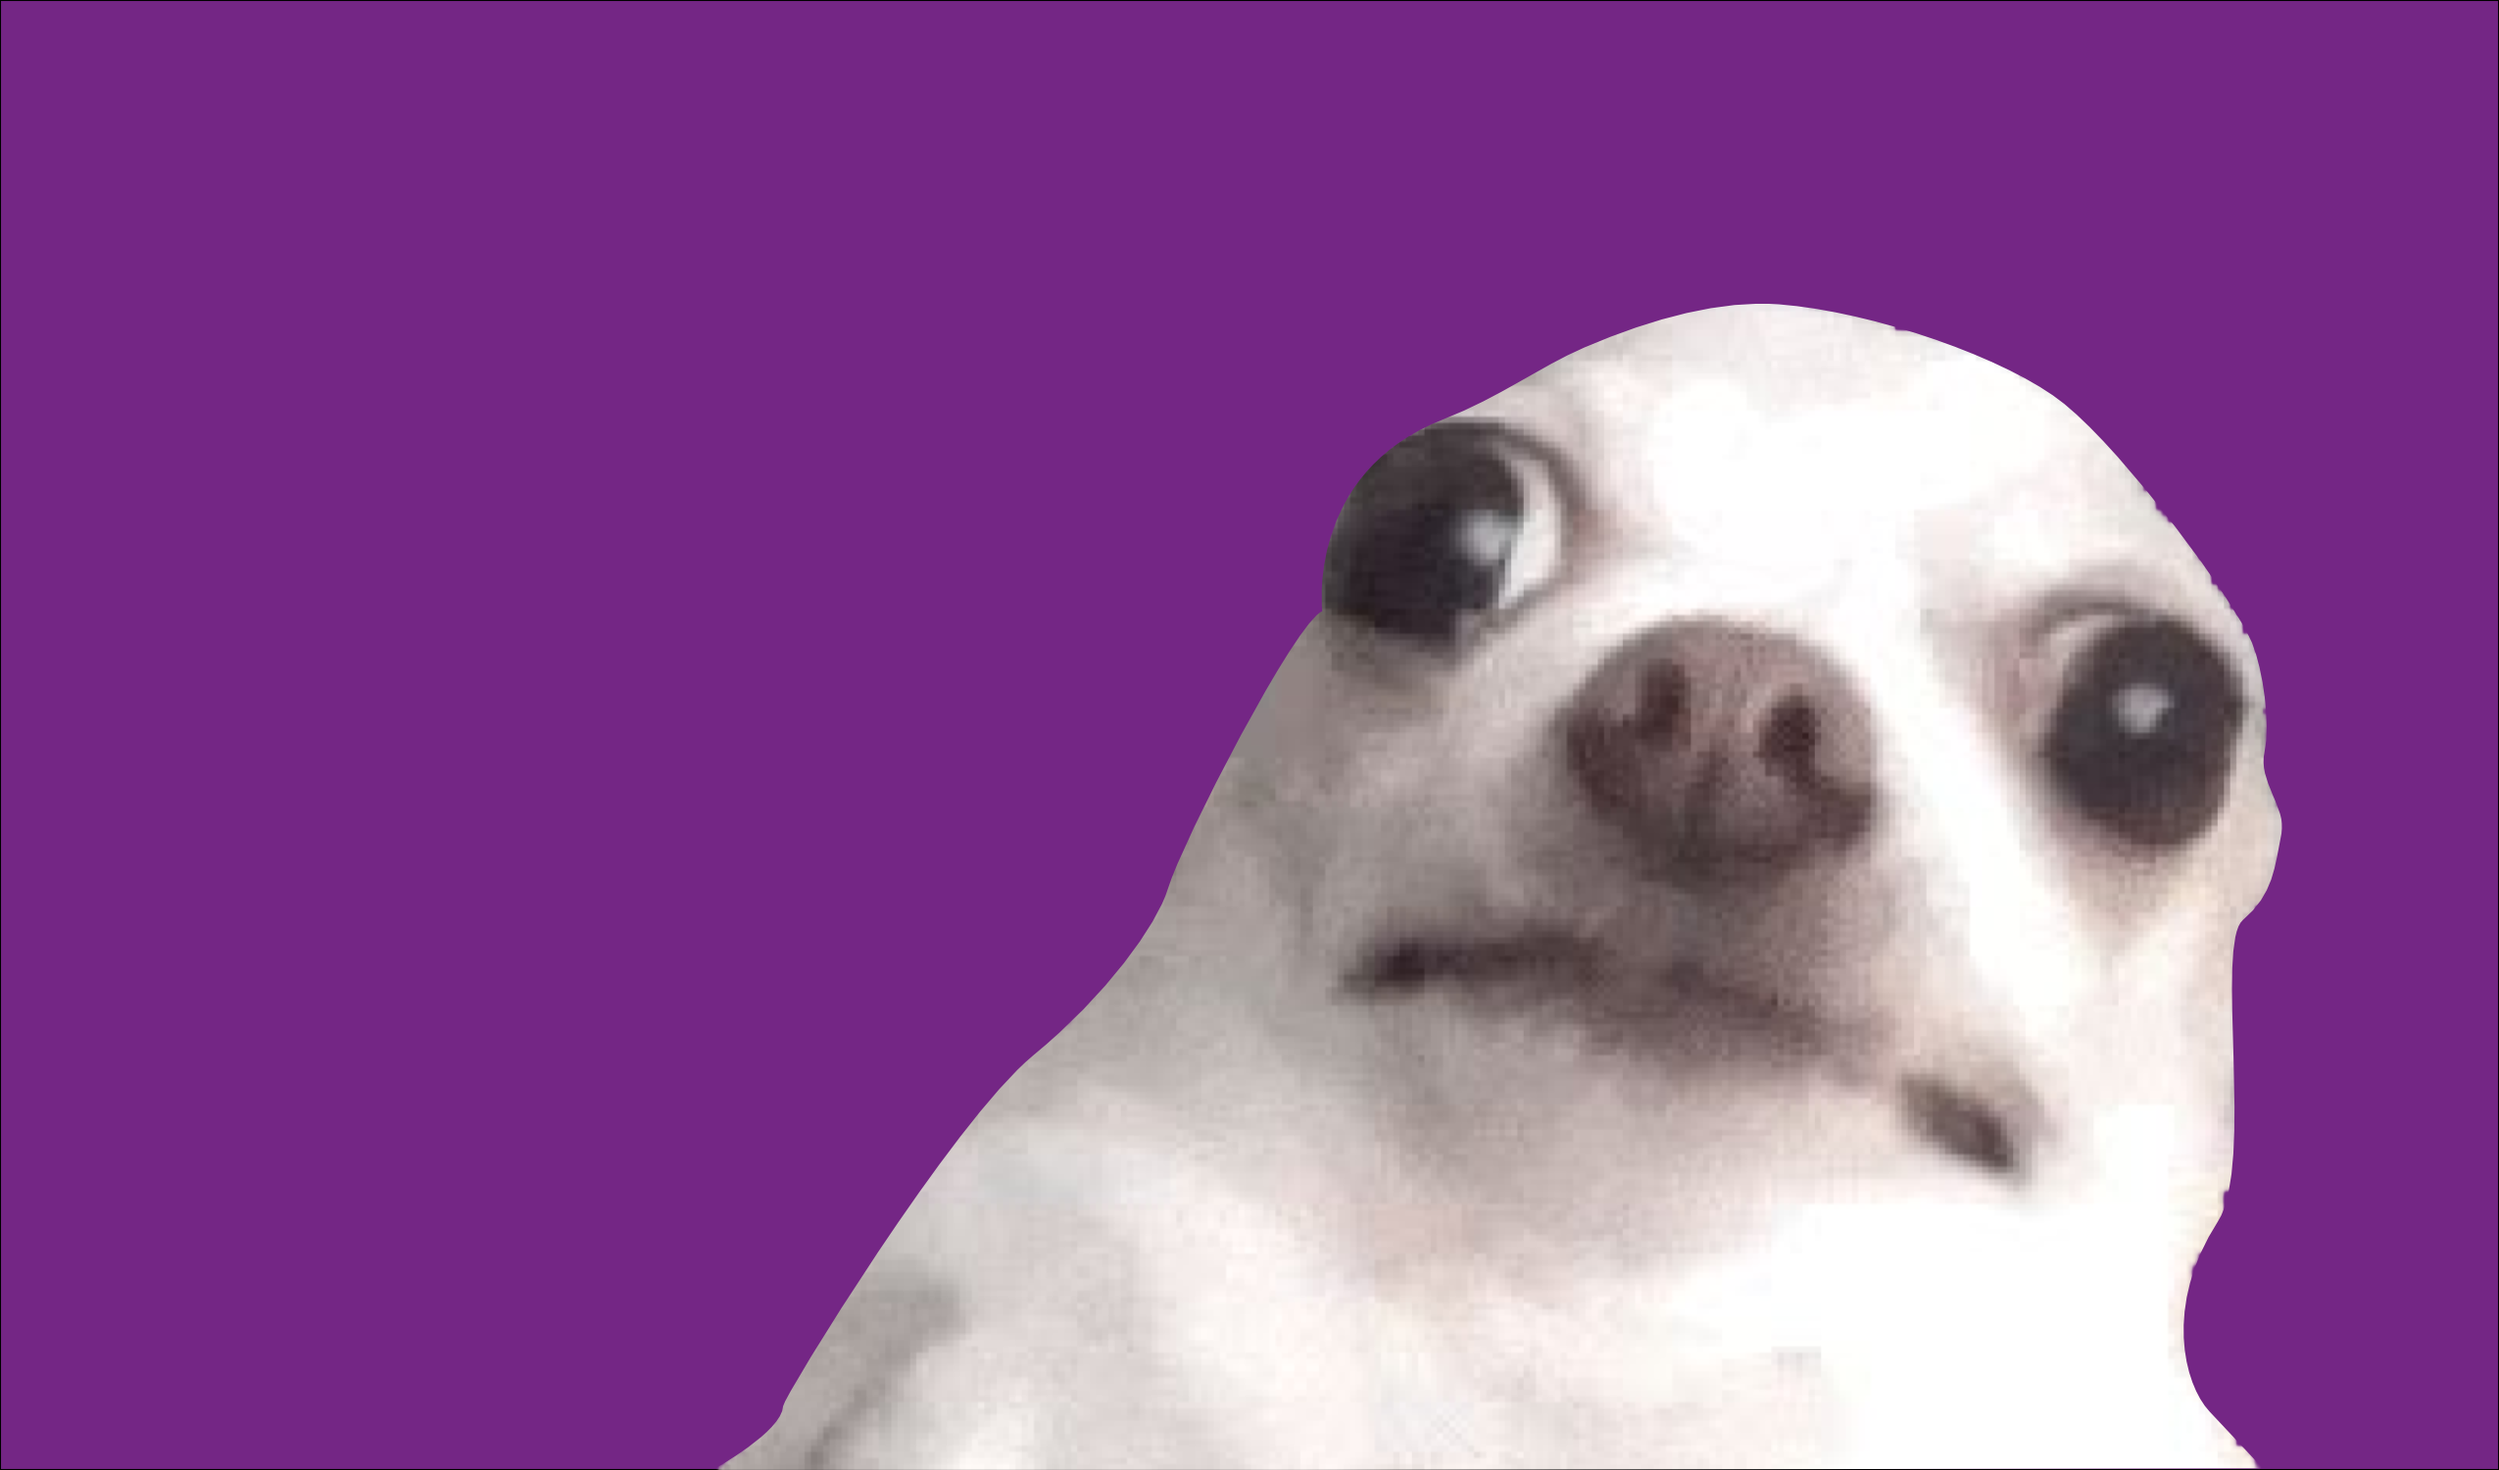
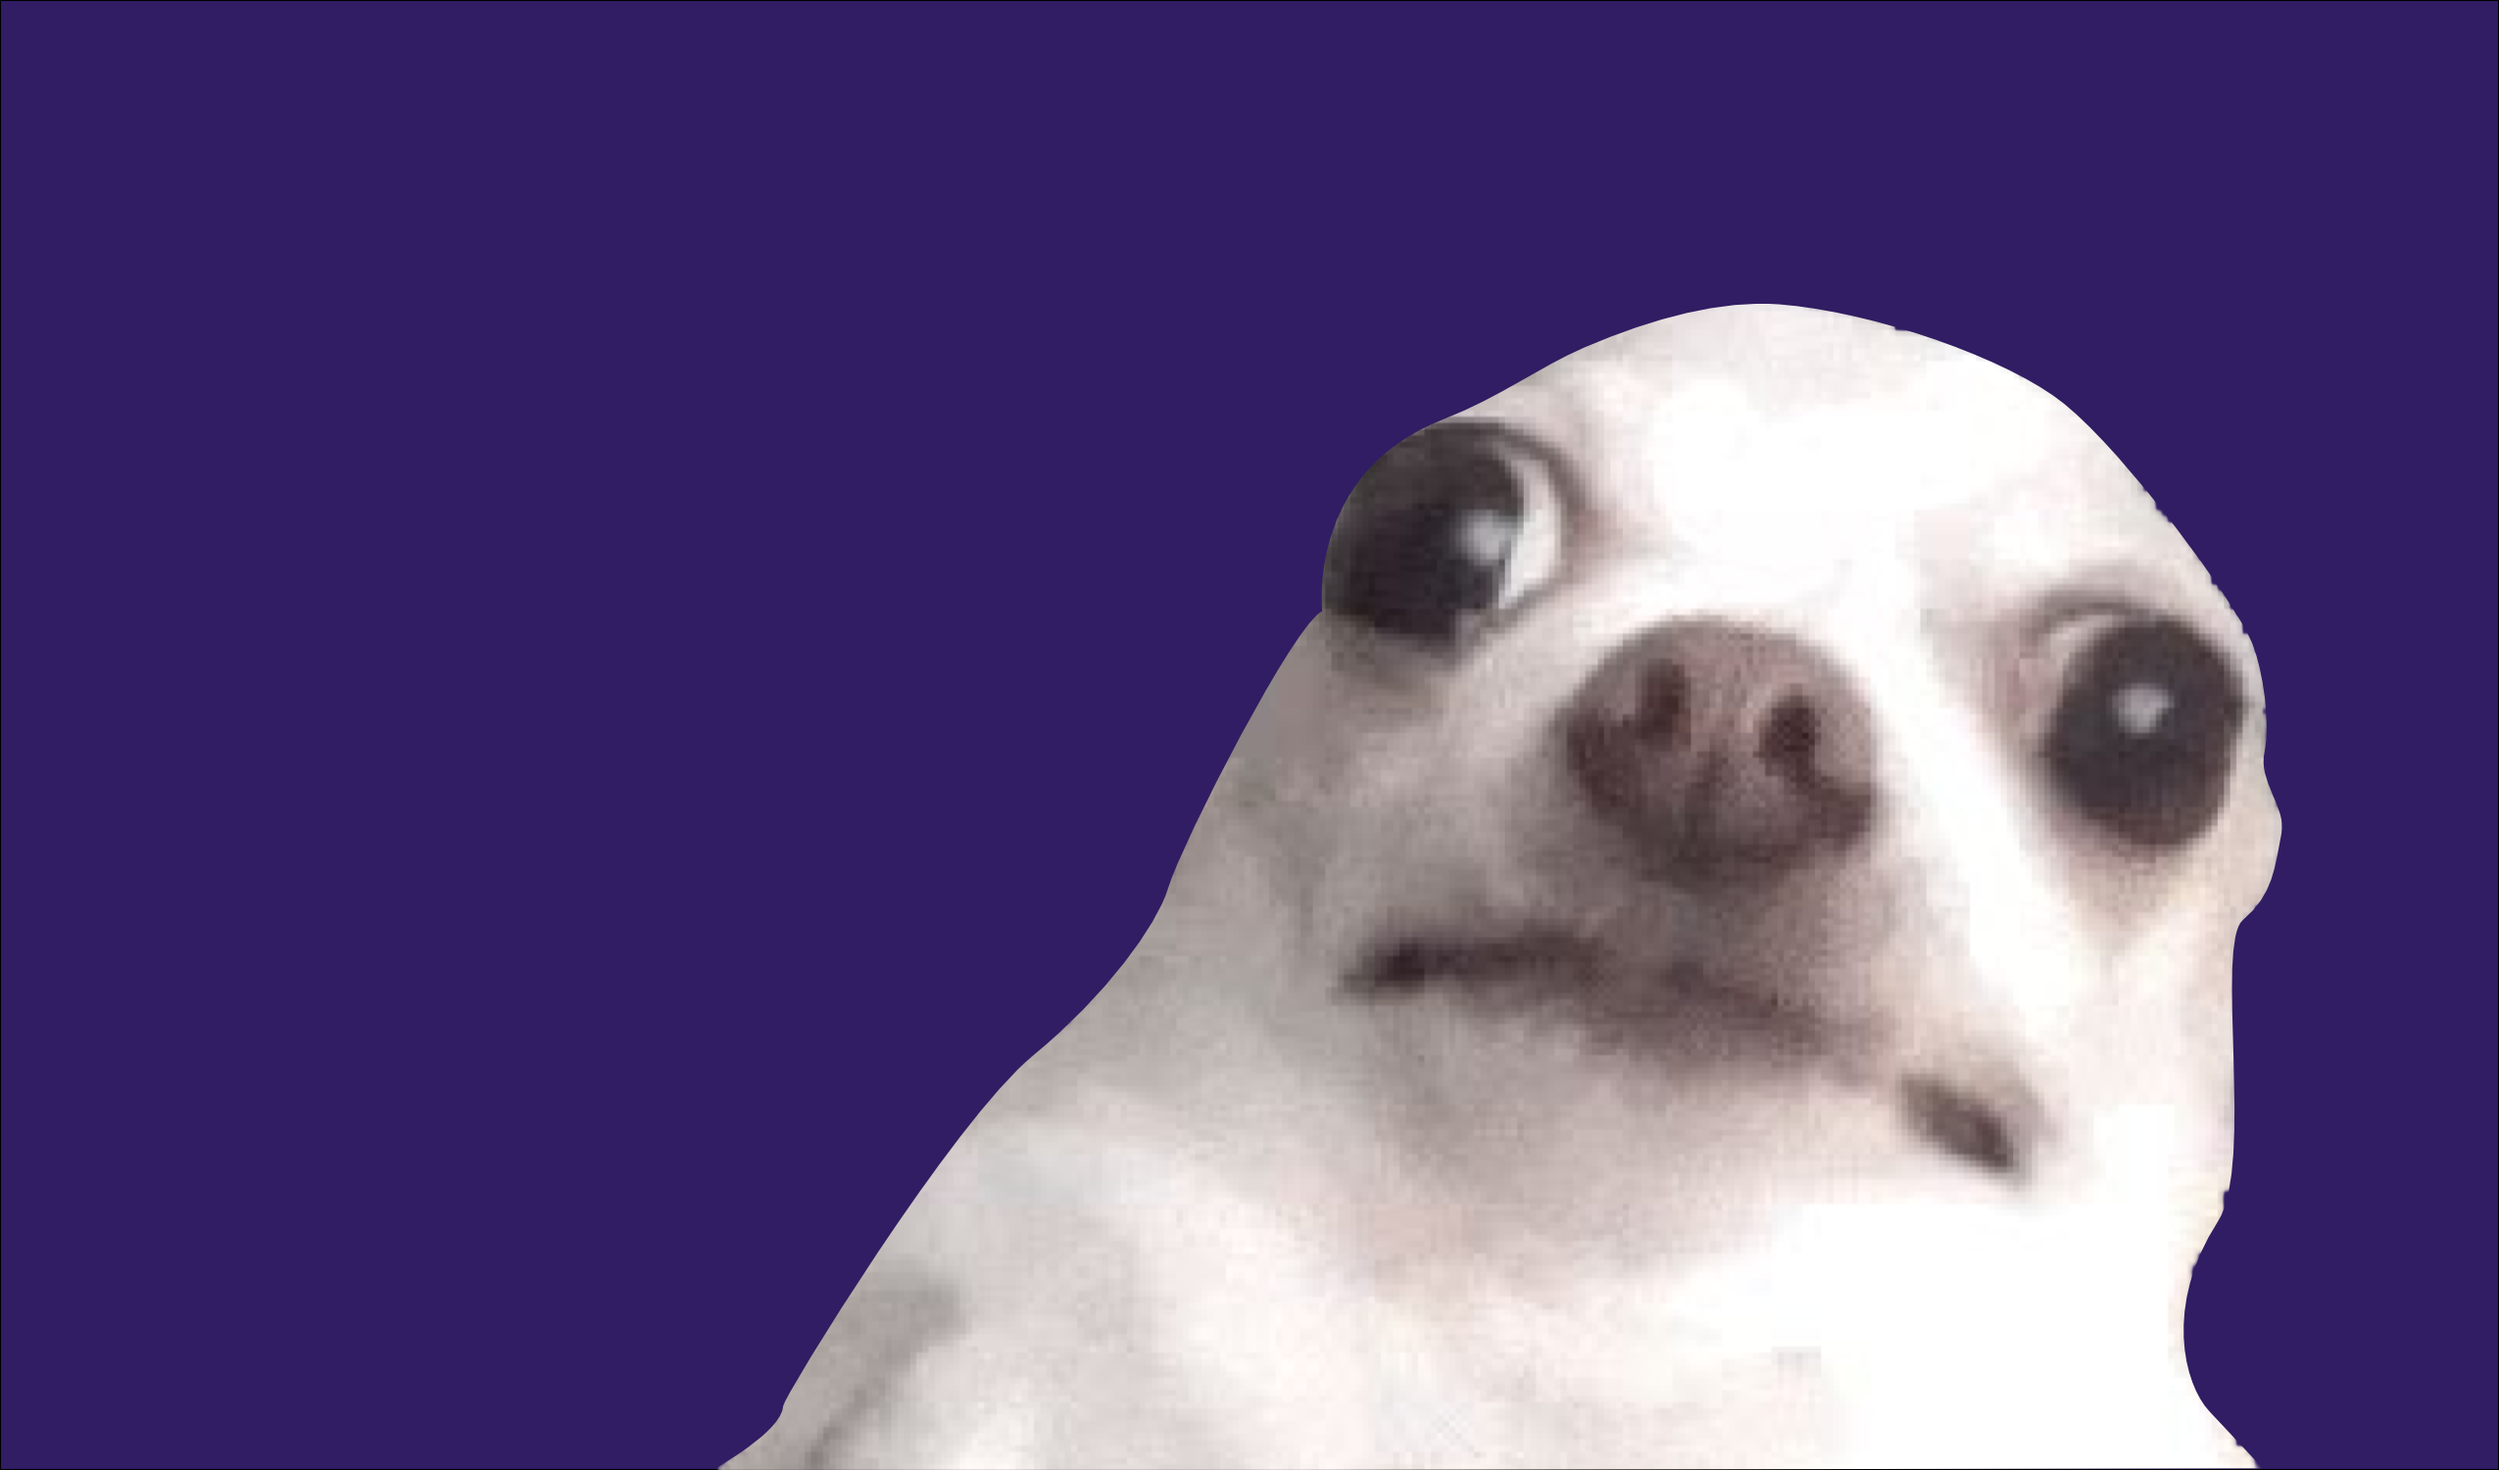
Text, style modifications
- Increase height of image on confirmation page
- Move "Not found" text on 404 page to page body
- Change background color of 404 image

diff --git a/src/pages/Confirmation.tsx b/src/pages/Confirmation.tsx
@@ -22,7 +22,7 @@ const useStyles = makeStyles({
     backgroundSize: "cover",
     backgroundPositionX: "center",
     backgroundPositionY: "center",
-    height: "200px",
+    height: "300px",
     display: "flex",
     flexDirection: "column",
     justifyContent: "center",
@@ -92,6 +92,9 @@ const Confirmation = () => {
       </div>
       <div className={classes.content}>
         <h2>You're in! Thanks for registering.</h2>
+        
+        <p>You will receive an email with detailed race information as race day approaches.</p>
+        
         <p>Registration for the Taco Bell 50K is free, but please consider supporting our charity partner, Achilles International.</p>
 
         <p> Achilles International is a 501(c)(3) nonprofit organization that pairs runners with disabilites with volunteer guides, aiming to create a community of all abilities through sport. Founded in 1983, Achilles has chapters worldwide, including in Denver, Colorado.</p>

diff --git a/src/pages/NotFound.tsx b/src/pages/NotFound.tsx
@@ -81,9 +81,9 @@ const NotFound = () => {
   return (
     <FluentProvider theme={lightTheme}>
       <div className={classes.heroBanner}>
-        <h1>Not Found</h1>
       </div>
       <div className={classes.content}>
+        <h2>Not Found</h2>
         <p>Sorry, the page you are looking for does not exist.</p>
       </div>
     </FluentProvider>
